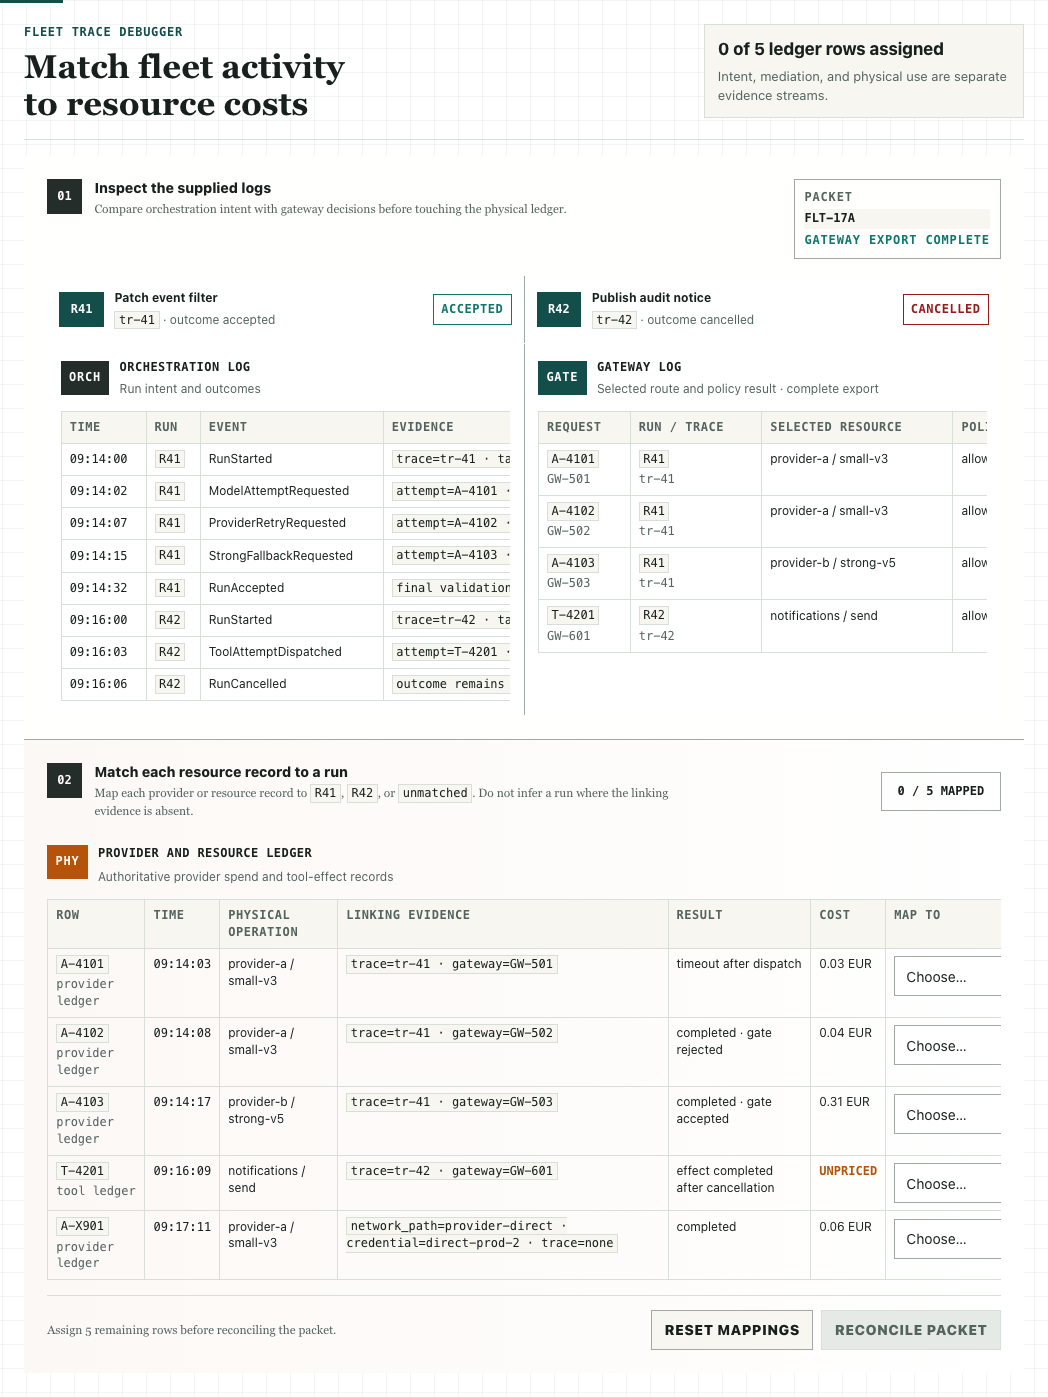
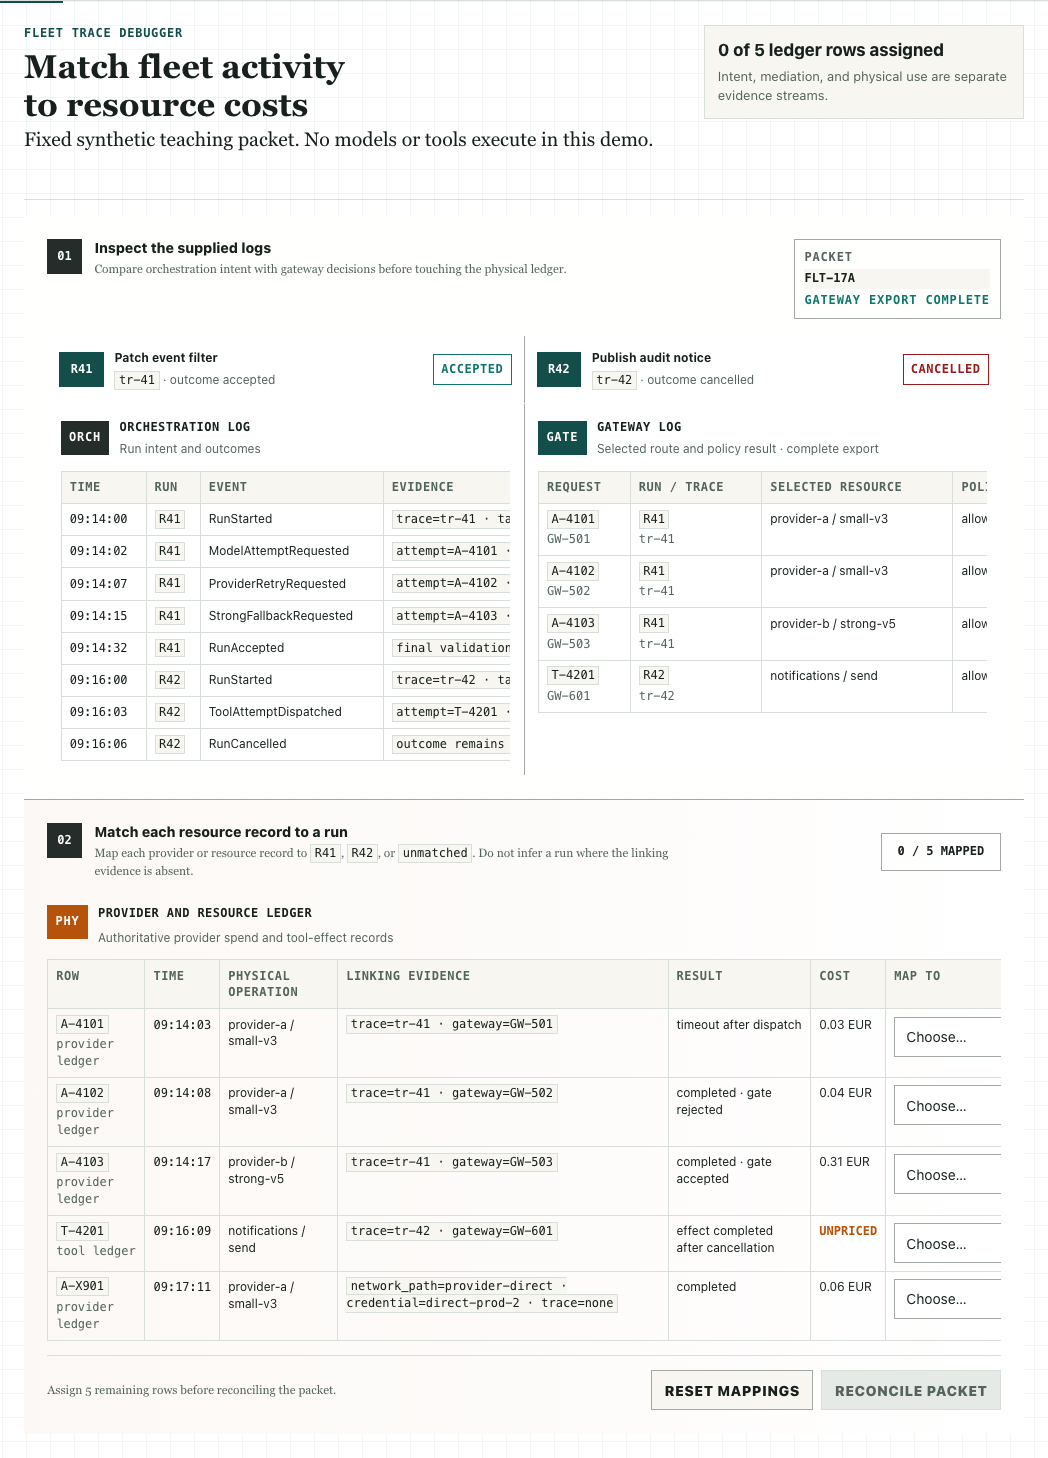
Clarify course audit guidance and demo evidence limits

diff --git a/shared/learning-resources.ts b/shared/learning-resources.ts
@@ -312,6 +312,7 @@ const activities: Record<string, Activity> = {
       "Relate span timing, parentage, and events to the declared request boundary.",
   },
   "Fleet trace debugger": {
+    activityVersion: 2,
     conceptIds: [
       "agent-fleet",
       "authority",
@@ -320,14 +321,14 @@ const activities: Record<string, Activity> = {
       "state-authority",
     ],
     caption:
-      "Reconcile orchestration intent, gateway decisions, and the physical execution ledger.",
+      "Reconcile orchestration intent, gateway decisions, and a resource ledger in a fixed synthetic teaching packet.",
     controls: [
       "Trace inspection",
       "Run attribution",
       "Physical ledger accounting",
     ],
     assumptions:
-      "Count each physical row once, including failed, cancelled, and unmatched work. Missing linking evidence must remain unmatched.",
+      "All logs and costs are synthetic; no models or tools execute in this demo. Count each physical row once, including failed, cancelled, and unmatched work. Missing linking evidence must remain unmatched.",
     predict:
       "Which records prove execution, and which express only an intended or authorized action?",
     try: "Attribute records to R41, R42, or unmatched using the available linking evidence.",

diff --git a/site/includes/fleet-trace-debugger.html b/site/includes/fleet-trace-debugger.html
@@ -9,11 +9,16 @@
     <div>
       <p class="fleet-trace-kicker demo-kicker">Fleet trace debugger</p>
       <h3 id="fleet-trace-heading">Match fleet activity to resource costs</h3>
+      <p>
+        Fixed synthetic teaching packet. No models or tools execute in this
+        demo.
+      </p>
     </div>
     <div class="fleet-trace-summary demo-summary" aria-live="polite">
       <span data-fleet-trace-verdict>0 of 5 ledger rows assigned</span>
       <small data-fleet-trace-summary>
-        Compare planned work, gateway decisions, and actual resource use.
+        Compare planned work, gateway decisions, and the supplied resource
+        ledger.
       </small>
     </div>
   </header>

diff --git a/book/02_challenge/05_friction.md b/book/02_challenge/05_friction.md
@@ -32,7 +32,8 @@ In a small application, several stages may live in one module and deploy togethe
 They remain distinct responsibilities because a mistake at each boundary produces different evidence and a different user-visible failure.
 
 Friction becomes visible when the path is hard to trace, the same rule has several unsynchronized definitions, a local check cannot exercise the changed boundary, or a deployment makes earlier assumptions costly to recover.
-The path also gives the chapter a stable unit of analysis: ask what the category change costs in implementation A, then repeat the same audit for implementation B.
+The category change is an illustration and can serve as an optional controlled comparison: ask what the same request costs in implementations A and B.
+For the required course audits, use the [assigned phase-specific probes](/project/#10-1-change-probe-protocol), whose exact prompts, fields and values are released only after the implementation is submitted.
 
 An independently built client can expose assumptions that the provider's own tests share with its implementation.
 The [optional API-consumer investigation](/explore/temporary-api-consumers/) probes a fixed contract with temporary CSV and summary clients, then separates provider defects from consumer mistakes and confusing documentation.
@@ -243,7 +244,9 @@ For example, in an illustrative pair of accepted changes, 18 baseline person-min
 Neither number establishes future savings or a causal benefit from the intervention.
 Use your own linked observations and account for practice effects, configuration changes and ongoing maintenance.
 
-Apply the same bounded request and acceptance boundary when comparing implementations A and B.
+For an optional controlled comparison, keep the bounded request and acceptance boundary the same across implementations A and B.
+The required audits instead use phase-specific probes with different product language but an equivalent vertical slice and acceptance burden.
+Compare their recorded outcomes under the common audit protocol, accounting for familiarity with earlier probes and any differences in conditions.
 For an implemented choice, mark its commitment point or record that none was reached, name what now depends on it, and identify the evidence that would show reversal succeeded.
 A checked improvement, unchanged or worse result, or justified follow-up can all support an honest friction finding.
 
@@ -259,4 +262,4 @@ Use the chapter's questions about protective friction, reversibility, decision h
 
 Follow one change from the browser through contracts, data, validation, and deployment to locate its largest source of friction.
 Preserve checks that protect accepted behavior, expose the point where reversal becomes a coordinated operation, and move useful feedback earlier where possible.
-Repeat the same audit to see whether the next implementation actually makes the change easier.
+Compare bounded audit outcomes under equivalent conditions to assess whether the next implementation makes this kind of change easier, while accounting for practice and other changed conditions.

diff --git a/labs/README.md b/labs/README.md
@@ -105,11 +105,11 @@ It is a useful starting configuration for these exercises; the four workspace ex
 
 Obtain your own department access through the instructor and use the [gateway documentation](https://llm-gateway.k8s.aalto.fi/docs) for account or service details.
 Keep the key in your local environment or an ignored `.env` file containing `AALTO_KEY=your-key`; it does not belong in a prompt, decision record or evidence archive.
-The API example below reads `.env` with Node, without evaluating it as shell code.
+The API example below uses the exported key or loads `.env` if present, without evaluating the file as shell code.
 It makes one small inference request, so run it only after the instructor confirms your access and allocation:
 
 ```sh
-node --env-file=.env --input-type=module <<'NODE'
+node --env-file-if-exists=.env --input-type=module <<'NODE'
 if (!process.env.AALTO_KEY) throw new Error("AALTO_KEY is missing");
 const response = await fetch("https://llm-gateway.k8s.aalto.fi/api/v1/responses", {
   method: "POST",

diff --git a/lecture_plan.md b/lecture_plan.md
@@ -169,7 +169,7 @@ Negative or unresolved interventions are worth discussing when the baseline, cha
 Reserve most of the session for teams to present implementation C and their A–B–C comparison.
 Ask teams to emphasize:
 
-- the strongest observed evidence, including a finding from implementation C's fleet debugging view;
+- the strongest observed evidence, including a debugging finding from the actual fleet run that produced C; show C's fleet debugging view only if implemented;
 - one important inference and its alternatives;
 - one proposed response that remains untested;
 - the conditional application and development-workflow decision they would make;

diff --git a/slides/lecture-04-web-architecture.md b/slides/lecture-04-web-architecture.md
@@ -122,9 +122,9 @@ For implementation B, record:
 - one request and data path;
 - authority and ownership boundaries;
 - the automated-consumer policy;
-- one architectural difference from A;
-- the pressure that difference should improve;
-- the cost or failure mode it may introduce.
+- one consequential architectural choice to preserve or change from A;
+- the pressure that justifies that choice;
+- the cost or failure mode it retains or introduces, and how to check it.
 
 **Question to carry forward:** How difficult is this architecture for a newcomer to change safely?
 
